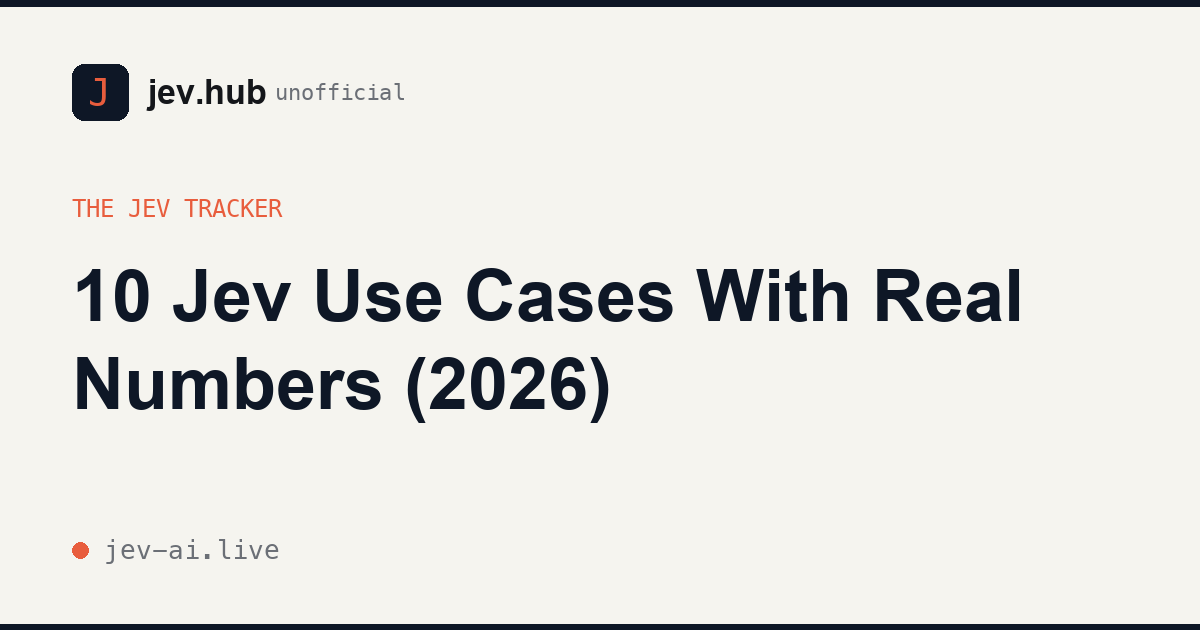
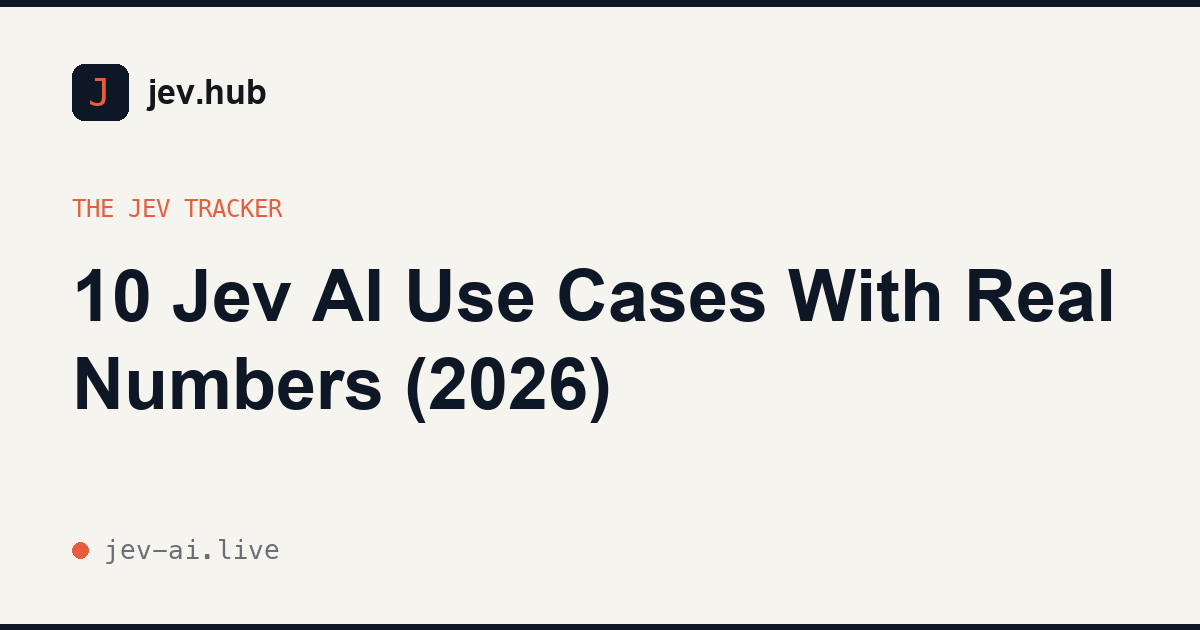
OG images: drop unofficial badge and rebrand kicker; bust social cache
- gen_og.py: remove 'unofficial' wordmark, ZH kicker -> 'Jev AI 追踪站 · 每日更新',
  default subtitle -> 'THE JEV AI TRACKER'; regenerated all 21 images
- build.py: og:image/twitter:image now use ?v=2 so X/IM caches fetch the
  new artwork instead of the cached unofficial versions

Changed region(s): [[0.2467, 0.4222, 0.925, 0.5127], [0.2467, 0.1206, 0.3392, 0.181]]

diff --git a/gen_og.py b/gen_og.py
@@ -62,16 +62,12 @@ def make_card(path, title, subtitle, site_label, is_zh):
     d.rectangle([0, 0, W, 6], fill=NAVY)
     d.rectangle([0, H - 6, W, H], fill=NAVY)
 
-    # brand row: dark "J" mark + wordmark + unofficial
+    # brand row: dark "J" mark + wordmark
     d.rounded_rectangle([72, 64, 128, 120], radius=12, fill=NAVY)
     fj = font(F_MONO, 38)
     d.text((100, 92), "J", font=fj, fill=ACCENT, anchor="mm")
     f_brand = font(F_HELV_BOLD, 34)
     d.text((148, 92), "jev.hub", font=f_brand, fill=INK, anchor="lm")
-    f_unoff = font(F_MONO, 22)
-    uw = d.textlength("unofficial", font=f_unoff)
-    d.text((156 + d.textlength("jev.hub", font=f_brand), 92), "unofficial",
-           font=f_unoff, fill=MUTED, anchor="lm")
 
     # subtitle kicker above title
     f_kick = font(F_CN if is_zh else F_MONO, 24)
@@ -108,12 +104,12 @@ def main():
     for slug, page in PAGES_ZH.items():
         make_card(os.path.join(OUT_DIR, f"zh-{slug}.png"),
                   title=page["title"].split("—")[0].split("|")[0].split("：")[0].strip(),
-                  subtitle="JEV 非官方追踪站 · 每日更新",
+                  subtitle="Jev AI 追踪站 · 每日更新",
                   site_label="jev-ai.live", is_zh=True)
         n += 1
     # fallback for any page without a dedicated image
     make_card(os.path.join(OUT_DIR, "default.png"),
-              title="Jev AI, decoded", subtitle="THE UNOFFICIAL JEV TRACKER",
+              title="Jev AI, decoded", subtitle="THE JEV AI TRACKER",
               site_label="jev-ai.live", is_zh=False)
     print(f"generated {n + 1} OG images -> {OUT_DIR}")
 

diff --git a/build.py b/build.py
@@ -122,7 +122,7 @@ def render_page(lang, slug, page, all_pages):
     loc = LOCALES[lang]
     crumb = page.get("crumb") or [(loc["home_label"], "/" if lang == "en" else "/zh/")]
     canonical = page_url(lang, slug)
-    og_image = f"{SITE_URL}/og/{lang}-{slug}.png"
+    og_image = f"{SITE_URL}/og/{lang}-{slug}.png?v=2"
     en_url, zh_url = page_url("en", slug), page_url("zh", slug)
     hreflang = (
         f'  <link rel="alternate" hreflang="en" href="{en_url}"/>\n'
